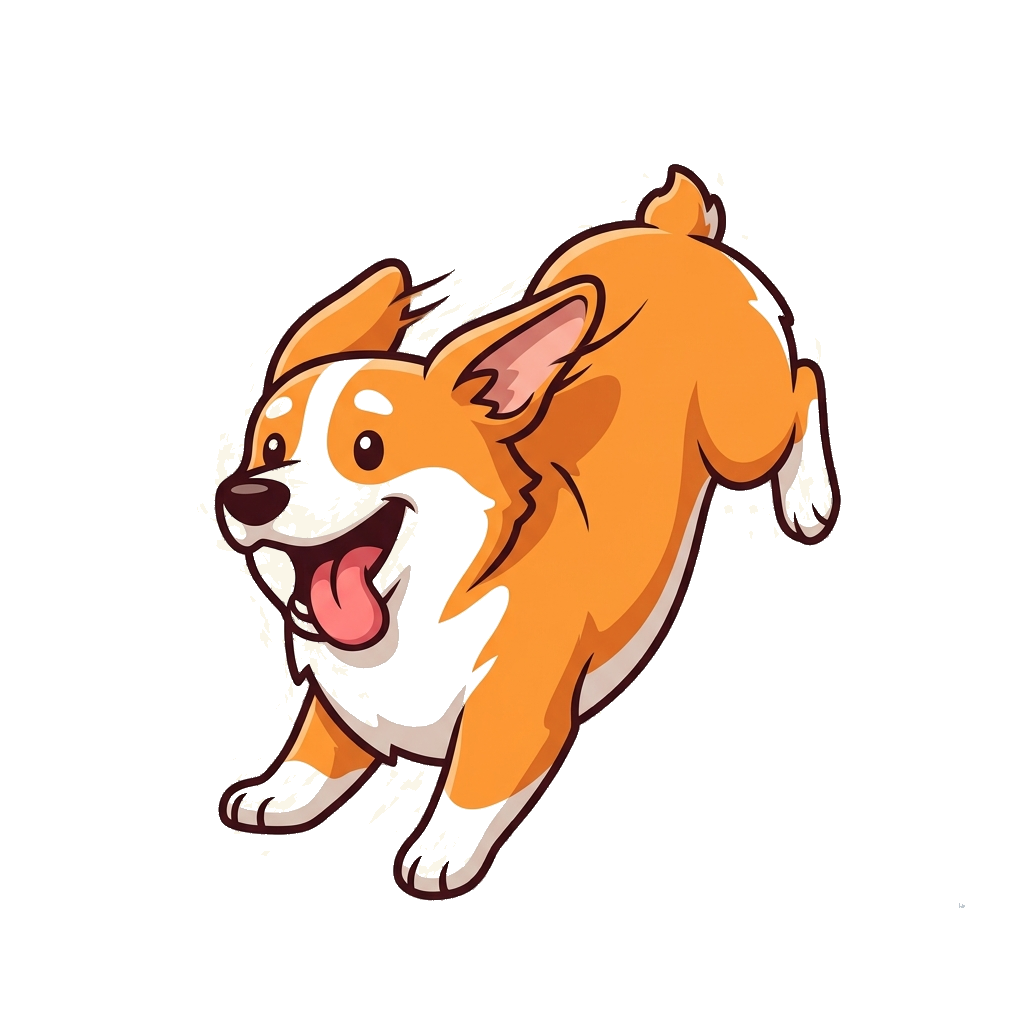
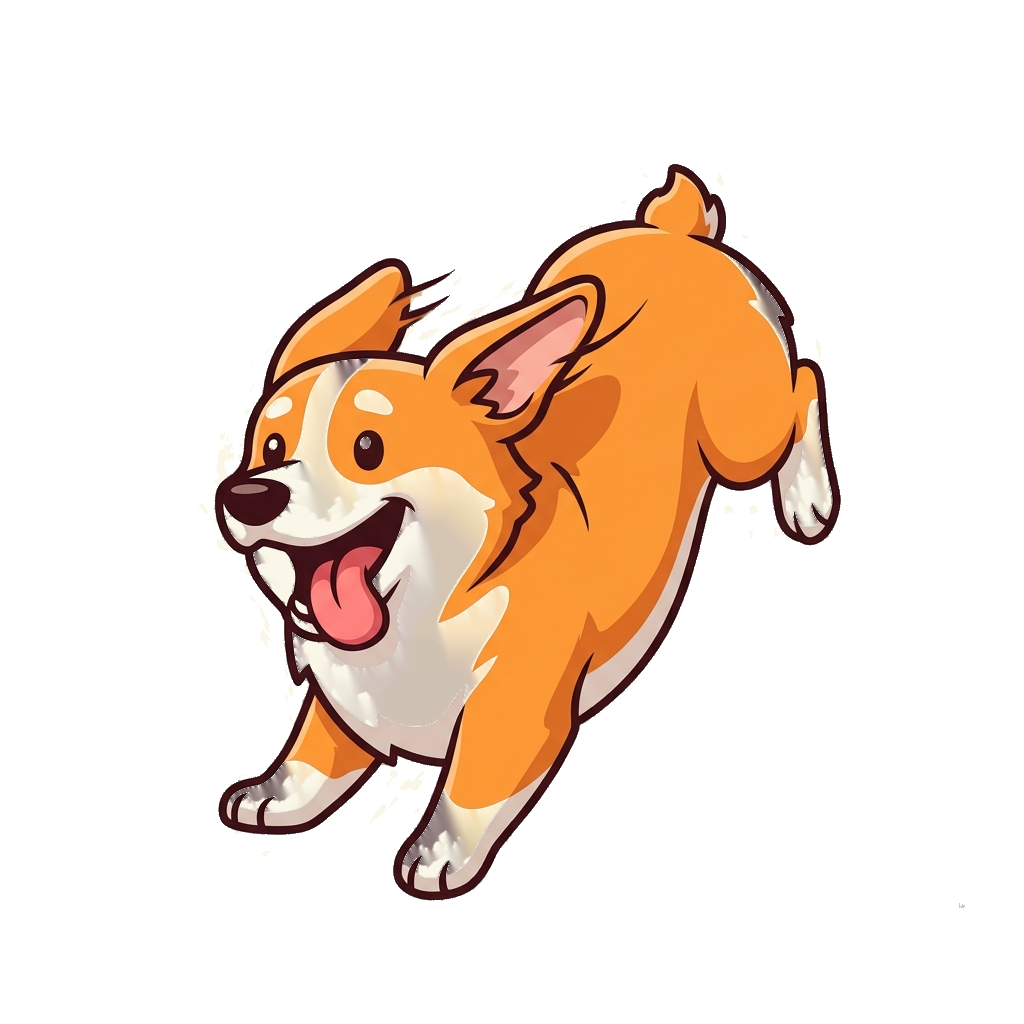
Aggressive opacity sweep on all corgi PNGs + cache-bust query

diff --git a/frontend/src/game/scenes/PreloadScene.ts b/frontend/src/game/scenes/PreloadScene.ts
@@ -74,22 +74,26 @@ export class PreloadScene extends Phaser.Scene {
     this.load.image('logo_corgi_hop', '/assets/logo_corgi_hop.png');
 
     // Corgi: 8-frame horizontal run sheet (2928 x 352 => 366 x 352 per frame).
-    this.load.spritesheet('corgi_run', '/assets/corgi_run_sheet.png', {
+    // Cache-bust query string (`?v=…`) forces the browser to fetch the latest
+    // repaired PNG whenever the corgi assets are updated — bypasses any stale
+    // sprite data cached from earlier gameplay sessions.
+    const V = 'v=20260726b';
+    this.load.spritesheet('corgi_run', `/assets/corgi_run_sheet.png?${V}`, {
       frameWidth: 366,
       frameHeight: 352,
     });
-    this.load.image('corgi_jump', '/assets/corgi_jump.png');
-    this.load.image('corgi_fall', '/assets/corgi_fall.png');
-    this.load.image('corgi_land', '/assets/corgi_land.png');
-    this.load.image('corgi_hit', '/assets/corgi_hit.png');
-    this.load.image('corgi_idle', '/assets/corgi_idle.png');
+    this.load.image('corgi_jump', `/assets/corgi_jump.png?${V}`);
+    this.load.image('corgi_fall', `/assets/corgi_fall.png?${V}`);
+    this.load.image('corgi_land', `/assets/corgi_land.png?${V}`);
+    this.load.image('corgi_hit',  `/assets/corgi_hit.png?${V}`);
+    this.load.image('corgi_idle', `/assets/corgi_idle.png?${V}`);
 
     // Cosmetic corgis
-    this.load.image('corgi_cowboy', '/assets/corgi_cowboy.png');
-    this.load.image('corgi_pirate', '/assets/corgi_pirate.png');
-    this.load.image('corgi_superhero', '/assets/corgi_superhero.png');
-    this.load.image('corgi_astronaut', '/assets/corgi_astronaut.png');
-    this.load.image('corgi_starter', '/assets/corgi_starter.png');
+    this.load.image('corgi_cowboy',    `/assets/corgi_cowboy.png?${V}`);
+    this.load.image('corgi_pirate',    `/assets/corgi_pirate.png?${V}`);
+    this.load.image('corgi_superhero', `/assets/corgi_superhero.png?${V}`);
+    this.load.image('corgi_astronaut', `/assets/corgi_astronaut.png?${V}`);
+    this.load.image('corgi_starter',   `/assets/corgi_starter.png?${V}`);
 
     // Obstacles
     this.load.image('fence', '/assets/fence.png');

diff --git a/frontend/scripts/full_opacity_sweep.py b/frontend/scripts/full_opacity_sweep.py
@@ -1,0 +1,125 @@
+#!/usr/bin/env python3
+"""
+STRONGER, MORE AGGRESSIVE opacity repair for every corgi asset.
+
+Strategy — "fill from outside in":
+  1) Build a boolean mask of "background" = every pixel reachable from
+     any of the four corners via a flood fill through pixels with alpha < 30.
+     That mask is the LEGITIMATE transparent margin outside the dog.
+  2) EVERY pixel NOT in the background mask becomes fully opaque (alpha 255).
+     Its RGB is kept if already present, otherwise averaged from its
+     opaque neighbours.
+
+This guarantees that everything inside the dog's outer silhouette is solid,
+while everything outside stays transparent. The dark-brown outline naturally
+seals the flood so it can't leak into the body.
+
+Files repaired (idempotent):
+  corgi_run_sheet.png (per-frame flood; sheet is 8 frames wide)
+  corgi_jump.png
+  corgi_fall.png
+  corgi_land.png
+  corgi_hit.png
+  corgi_idle.png
+  corgi_starter.png
+  corgi_cowboy.png
+  corgi_superhero.png
+  corgi_pirate.png
+  corgi_astronaut.png
+"""
+from pathlib import Path
+from PIL import Image
+from collections import deque
+
+ASSETS = Path(__file__).resolve().parent.parent / "public" / "assets"
+FILES = [
+    "corgi_run_sheet.png", "corgi_jump.png", "corgi_fall.png",
+    "corgi_land.png", "corgi_hit.png", "corgi_idle.png",
+    "corgi_starter.png", "corgi_cowboy.png", "corgi_superhero.png",
+    "corgi_pirate.png", "corgi_astronaut.png",
+]
+ALPHA_BG = 30
+
+
+def flood_bg(px, w, h, x0, y0):
+    """Return set of pixels reachable from (x0, y0) through alpha < ALPHA_BG."""
+    if px[x0, y0][3] >= ALPHA_BG:
+        return set()
+    visited = set()
+    q = deque([(x0, y0)])
+    while q:
+        x, y = q.popleft()
+        if (x, y) in visited or x < 0 or y < 0 or x >= w or y >= h:
+            continue
+        if px[x, y][3] >= ALPHA_BG:
+            continue
+        visited.add((x, y))
+        q.append((x + 1, y)); q.append((x - 1, y))
+        q.append((x, y + 1)); q.append((x, y - 1))
+    return visited
+
+
+def repair_region(px, w, h, x0, x1, y0, y1):
+    """Repair a single frame region [x0..x1)x[y0..y1)."""
+    # Build background mask from the four corners of this region only.
+    bg = set()
+    for cx, cy in [(x0, y0), (x1 - 1, y0), (x0, y1 - 1), (x1 - 1, y1 - 1)]:
+        bg |= flood_bg(px, w, h, cx, cy)
+    if not bg:
+        return 0
+    # Everything inside the region NOT in bg must be opaque.
+    filled = 0
+    for y in range(y0, y1):
+        for x in range(x0, x1):
+            if (x, y) in bg:
+                continue
+            r, g, b, a = px[x, y]
+            if a < 255:
+                # Fill with existing RGB if plausible, otherwise average neighbours
+                if a > 20 or (r + g + b > 45):
+                    px[x, y] = (r, g, b, 255)
+                else:
+                    # Interpolate from opaque neighbours
+                    rr = gg = bb = 0
+                    n = 0
+                    for dx in (-1, 0, 1):
+                        for dy in (-1, 0, 1):
+                            nx, ny = x + dx, y + dy
+                            if 0 <= nx < w and 0 <= ny < h:
+                                pc = px[nx, ny]
+                                if pc[3] > 200:
+                                    rr += pc[0]; gg += pc[1]; bb += pc[2]; n += 1
+                    if n > 0:
+                        px[x, y] = (rr // n, gg // n, bb // n, 255)
+                    else:
+                        px[x, y] = (245, 240, 225, 255)  # cream fallback
+                filled += 1
+    return filled
+
+
+def repair_file(path: Path) -> None:
+    im = Image.open(path).convert("RGBA")
+    px = im.load()
+    w, h = im.size
+    if path.name == "corgi_run_sheet.png":
+        # 8 frames horizontally
+        fw = w // 8
+        total = 0
+        for i in range(8):
+            total += repair_region(px, w, h, i * fw, (i + 1) * fw, 0, h)
+        print(f"{path.name}: filled {total} pixels inside silhouette across 8 frames")
+    else:
+        total = repair_region(px, w, h, 0, w, 0, h)
+        print(f"{path.name}: filled {total} pixels inside silhouette")
+    im.save(path, "PNG", optimize=True)
+
+
+def main() -> None:
+    for f in FILES:
+        p = ASSETS / f
+        if p.exists():
+            repair_file(p)
+
+
+if __name__ == "__main__":
+    main()
